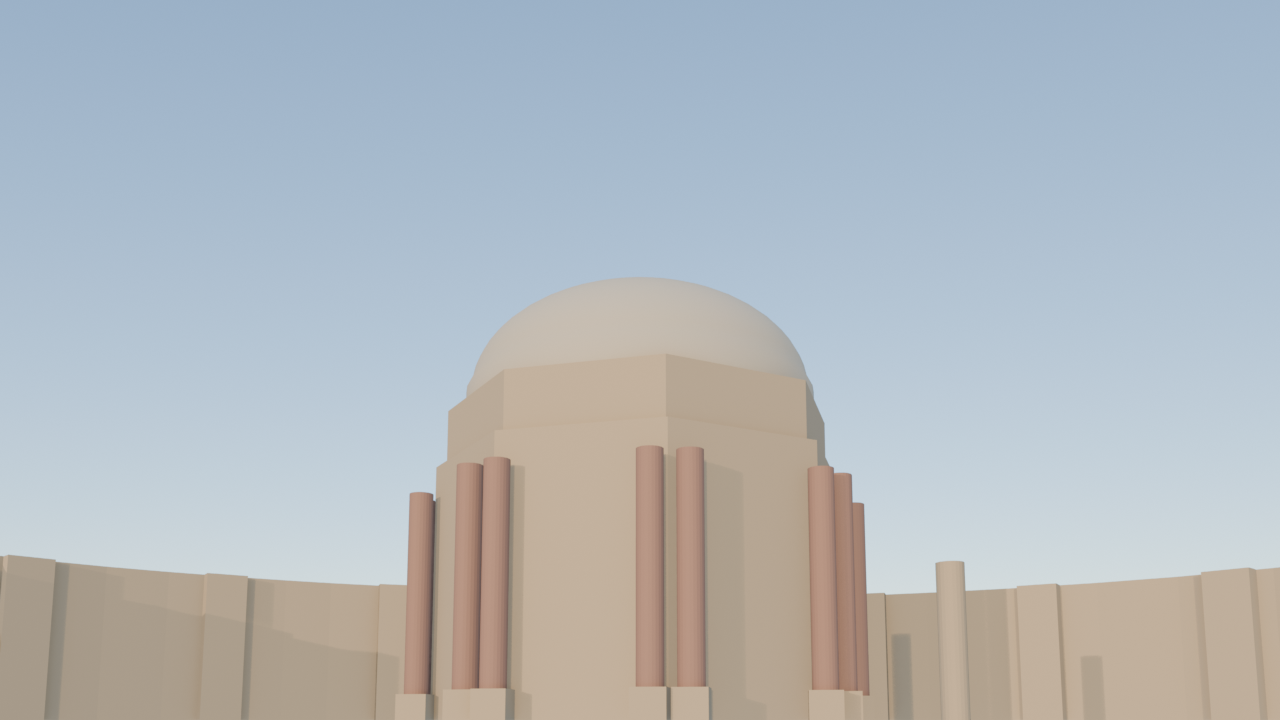
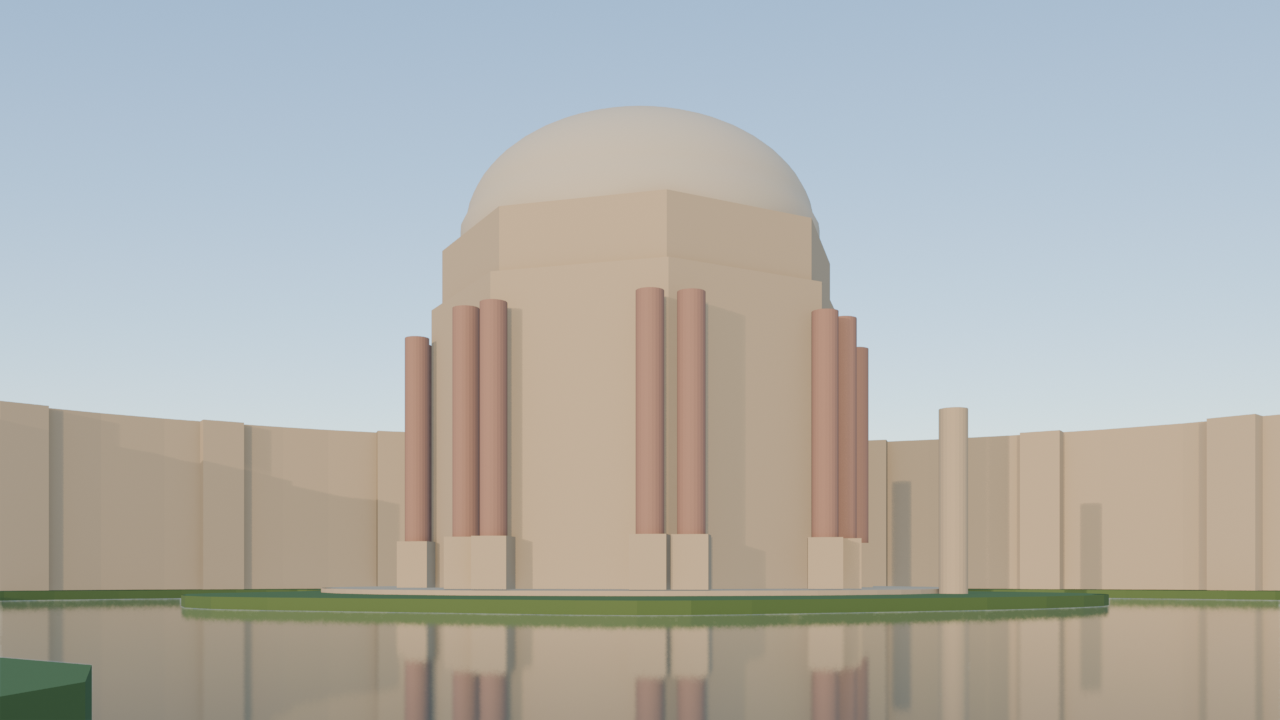
Lead: level hero camera with lens shift; approval package images
Claude-Session: https://claude.ai/code/session_01HGjB2WEbjN3pnt7HmChD9X

diff --git a/scripts/qa_compare.py b/scripts/qa_compare.py
@@ -51,7 +51,10 @@ def sheet(out, panels, cols=2):
         fc += f"color=black:s={tw}x{th}:d=1[p{i}];"
         panels = panels + [None]
     for r in range(rows):
-        fc += "".join(f"[p{r * cols + c}]" for c in range(cols)) + f"hstack=inputs={cols}[row{r}];"
+        if cols == 1:
+            fc += f"[p{r}]null[row{r}];"
+        else:
+            fc += "".join(f"[p{r * cols + c}]" for c in range(cols)) + f"hstack=inputs={cols}[row{r}];"
     fc += "".join(f"[row{r}]" for r in range(rows)) + (f"vstack=inputs={rows}[out]" if rows > 1 else "null[out]")
     Path(out).parent.mkdir(parents=True, exist_ok=True)
     cmd = [FFMPEG, "-y", "-loglevel", "error"] + inputs + ["-filter_complex", fc, "-map", "[out]", "-frames:v", "1", str(out)]

diff --git a/scripts/qa_cameras.py b/scripts/qa_cameras.py
@@ -16,7 +16,7 @@ COLLECTION = "QA_CAMERAS"
 
 # name, location (x, y, z), look-at target, focal length mm (36 mm sensor), reference photo, note
 CAMERAS = [
-    dict(name="CAM_qa_01_lagoon_hero", loc=(-16.0, 113.9, 1.0), target=(0.0, 0.0, 17.0), lens=31.0, shift_y=0.17,
+    dict(name="CAM_qa_01_lagoon_hero", loc=(-16.0, 113.9, 1.0), target=(0.0, 0.0, 1.0), lens=31.0, shift_y=0.17,
          ref="canonical/cam_01_lagoon_hero.png",
          note="THE hero. On the lagoon-face normal (az 82 deg), east shore ~115 m, eye level; real-photo twin ref 169 (golden hour)."),
     dict(name="CAM_qa_02_lagoon_ne_threequarter", loc=(-32.0, 38.0, 1.3), target=(0.0, 0.0, 20.0), lens=26.0,
